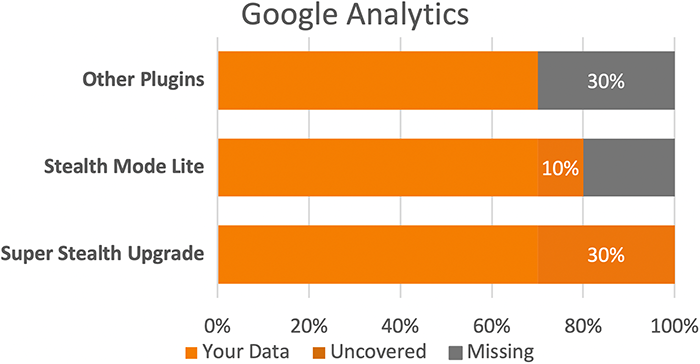
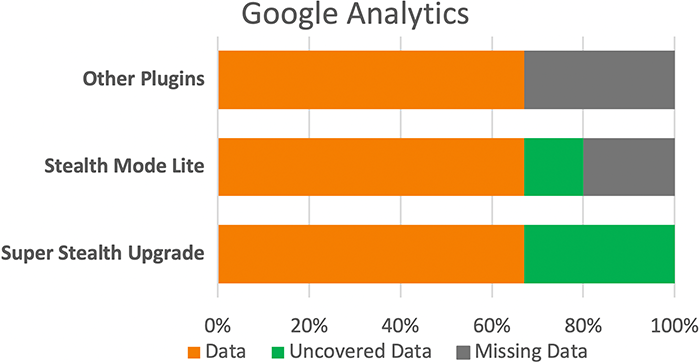
Changed infographic. Added source.

diff --git a/includes/admin/class-settings.php b/includes/admin/class-settings.php
@@ -310,7 +310,7 @@ class CAOS_Admin_Settings extends CAOS_Admin
             <span class="dashicons dashicons-warning"></span> <?= __('Your Google Analytics Data is <u>Incomplete</u>', 'host-analyticsjs-local'); ?>
         </h3>
         <h4>
-            <?= __('Did you know <strong>~30%</strong> of your visitors use <strong>Ad Blockers</strong>?', 'host-analyticsjs-local'); ?>
+            <?= __('Did you know <strong>~30%</strong> of your visitors use <strong>Ad Blockers</strong>?', 'host-analyticsjs-local'); ?> <sup>1</sup>
         </h4>
         <p>
             <img class="super-stealth-graph" src="<?= plugin_dir_url(CAOS_PLUGIN_FILE) . 'assets/images/super-stealth-graph-@2x.png'; ?>" />
@@ -319,7 +319,7 @@ class CAOS_Admin_Settings extends CAOS_Admin
             <?= __('CAOS is the <strong>only (!) plugin</strong> for WordPress with Stealth Mode technology to <em>bypass Ad Blockers</em>.', 'host-analyticsjs-local'); ?>
         </p>
         <p>
-            <?= __('Give the <strong>Stealth Mode Lite</strong> <em>extension</em> a try to uncover ⅓ of data normally blocked by Ad Blockers.', 'host-analyticsjs-local'); ?>
+            <?= __('Give the <strong>Stealth Mode Lite</strong> <em>extension</em> a try to uncover ⅓ of Google Analytics data normally blocked by Ad Blockers.', 'host-analyticsjs-local'); ?>
         </p>
         <p>
             <?= __('Or, upgrade to <strong>Super Stealth Mode</strong> to make your Google Analytics 100% accurate again.', 'host-analyticsjs-local'); ?>
@@ -327,6 +327,9 @@ class CAOS_Admin_Settings extends CAOS_Admin
         <p>
             <a target="_blank" class="button button-primary button-hero" href="https://woosh.dev/wordpress-plugins/caos-super-stealth-upgrade/<?= $this->utm_tags; ?>"><span class="dashicons dashicons-cart"></span> <?= __('Buy Now', 'host-analyticsjs-local'); ?></a>
             <span><em>(<?= __('Only € 49,-', 'host-analyticsjs-local'); ?>)</em></span>
+        </p>
+        <p>
+            <sup>1. Source: <em><a target="_blank" href="https://www.socialmediatoday.com/news/global-ad-blocking-behavior-2019-infographic/551716/">Social Media Today</a></em></sup>
         </p>
         <?php
     }
